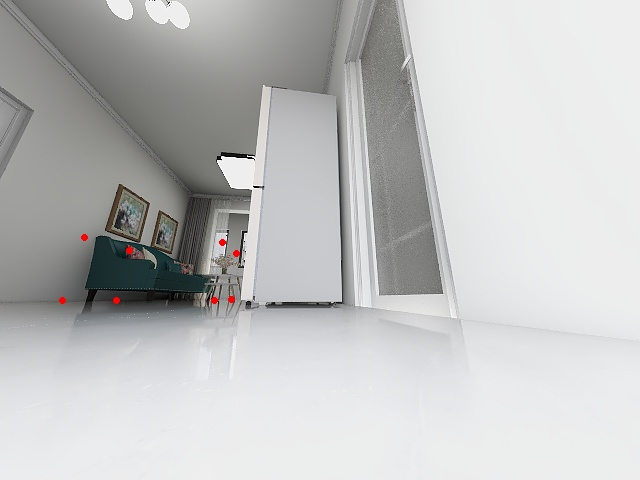
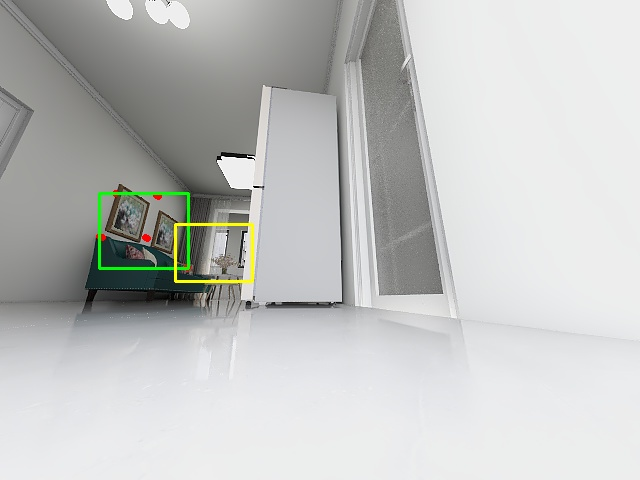
update

Changed region(s): [[0.125, 0.375, 0.4062, 0.625], [0.3125, 0.625, 0.3438, 0.6562], [0.1562, 0.625, 0.1875, 0.6562]]

diff --git a/draw.py b/draw.py
@@ -1,13 +1,26 @@
 import cv2 as cv
+import numpy as np
 
 
 img_rgb = cv.imread("Traj_0_0_rgb.jpg")
 
 
-# bbox = [[255,   92],[230,   305],[265,   174],[251,   303],[346,   103],[355,   304],[332,   153],[334,   302]]        
+# bbox = [[241,   202],[230,   300],[203,  200],[185,   300],[250,   218],[241,   300],[218,   217],[206,   300]]        # 47 冰箱1
+# bbox = [[254,   91],[229,   305],[264,   147],[250,   302],[346,   103],[355,   304],[332,   154],[334,   302]]        # 47 冰箱2
+# bbox = [[467,   47],[542,   307],[374,   97],[394,   304],[465,   125],[509,   303],[397,   150],[416,   302]]        # 47 冰箱 0_120
+# bbox = [[252,   195],[247,   246],[244,   246],[303,   3220],[303,   259],[303,   259],[301,   221],[300,   260]]        # 80 电视 0_120
 # bbox = [[300,   228],[299,   267],[300,   229],[299,   267],[319,   229],[319,   267],[318,   230],[318,   268]]  
-# bbox = [[185,   244],[175,   300],[213,   258],[207,   299],[238,   246],[232,   300],[251,   259],[248,   299]]  #74
-bbox = [[84,   237],[62,   300],[129,   250],[116,   300],[222,   242],[214,   300],[236,   253],[231,   299]]
-for i in range(8):
-        cv.circle(img_rgb,(bbox[i][0],bbox[i][1]),2,(0,0,255),2)
+# bbox = [[185,   244],[175,   300],[213,   258],[207,   299],[238,   246],[232,   300],[251,   259],[248,   300]]  #74
+# bbox = [[84,   237],[62,   300],[129,   250],[116,   300],[222,   242],[214,   300],[236,   253],[231,   299]]    #75
+bbox = [[187, 267], [99.69625127964488, 236.14565374007321], [115.96258521178362, 193.86435766993804], [102.53182350277774, 237.05697597990155], [156.52974412218887, 195.0087749736566], [145.89556986286252, 237.7690523367934], [158.35563457886363, 196.40000449216865], [147.99176480379188, 238.6333109230847]]
+cnt = []
+for i in range(8): 
+        cnt.append((int(bbox[i][0]),int(bbox[i][1])))
+        cv.circle(img_rgb,(int(bbox[i][0]),int(bbox[i][1])),2,(0,0,255),2)
+x,y,w,h = cv.boundingRect(np.array(cnt))
+cv.rectangle(img_rgb, (x, y), (x+w, y+h), (0, 255, 0), 2)
+
+
+cv.rectangle(img_rgb, (175,224),(175+77,224+57),(0, 255, 255), 2)
+
 cv.imwrite("draw.jpg",img_rgb)
